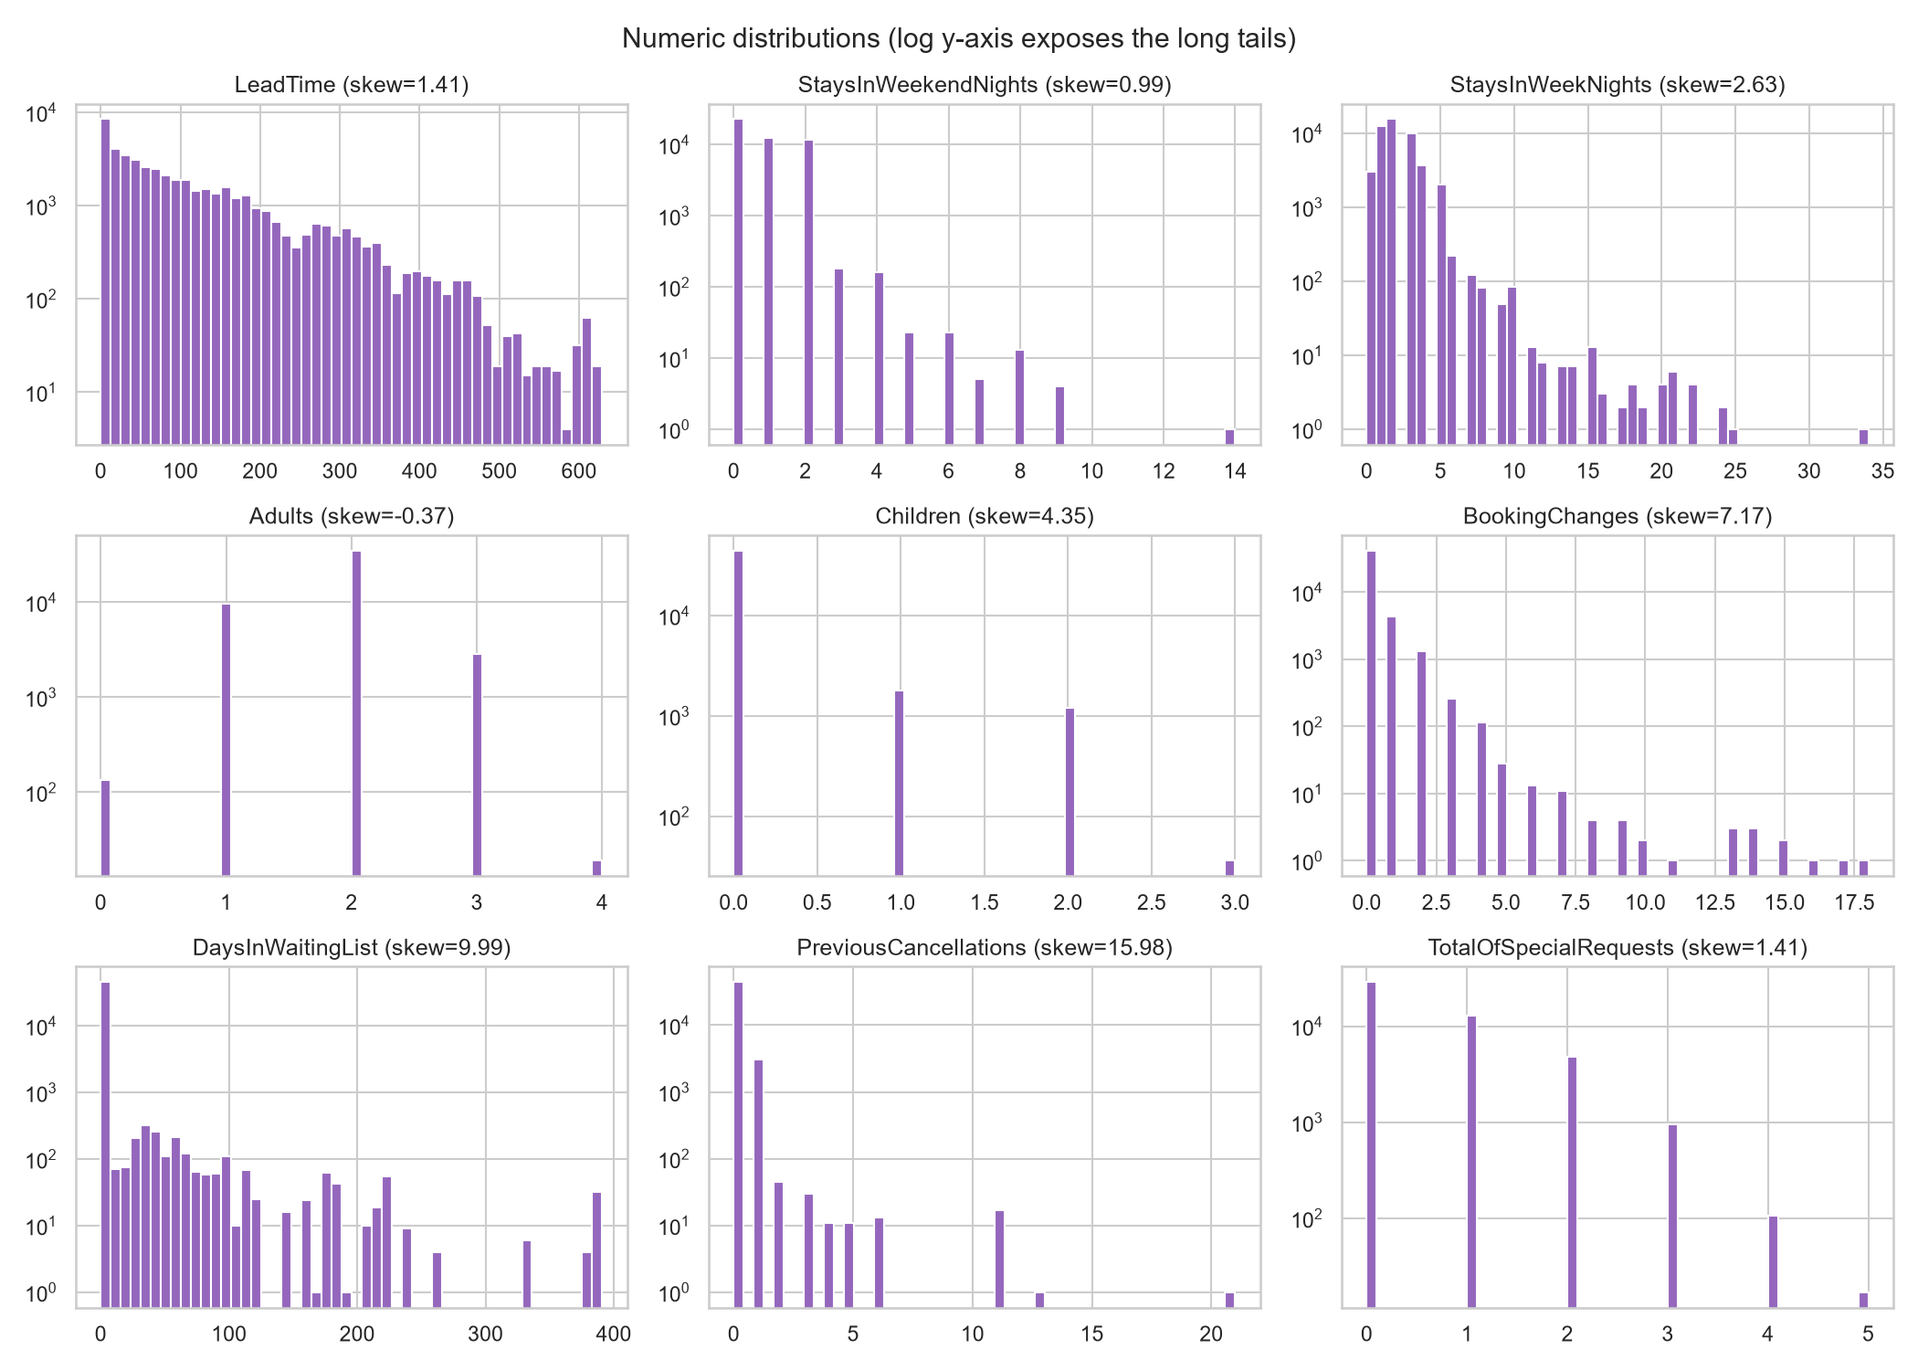
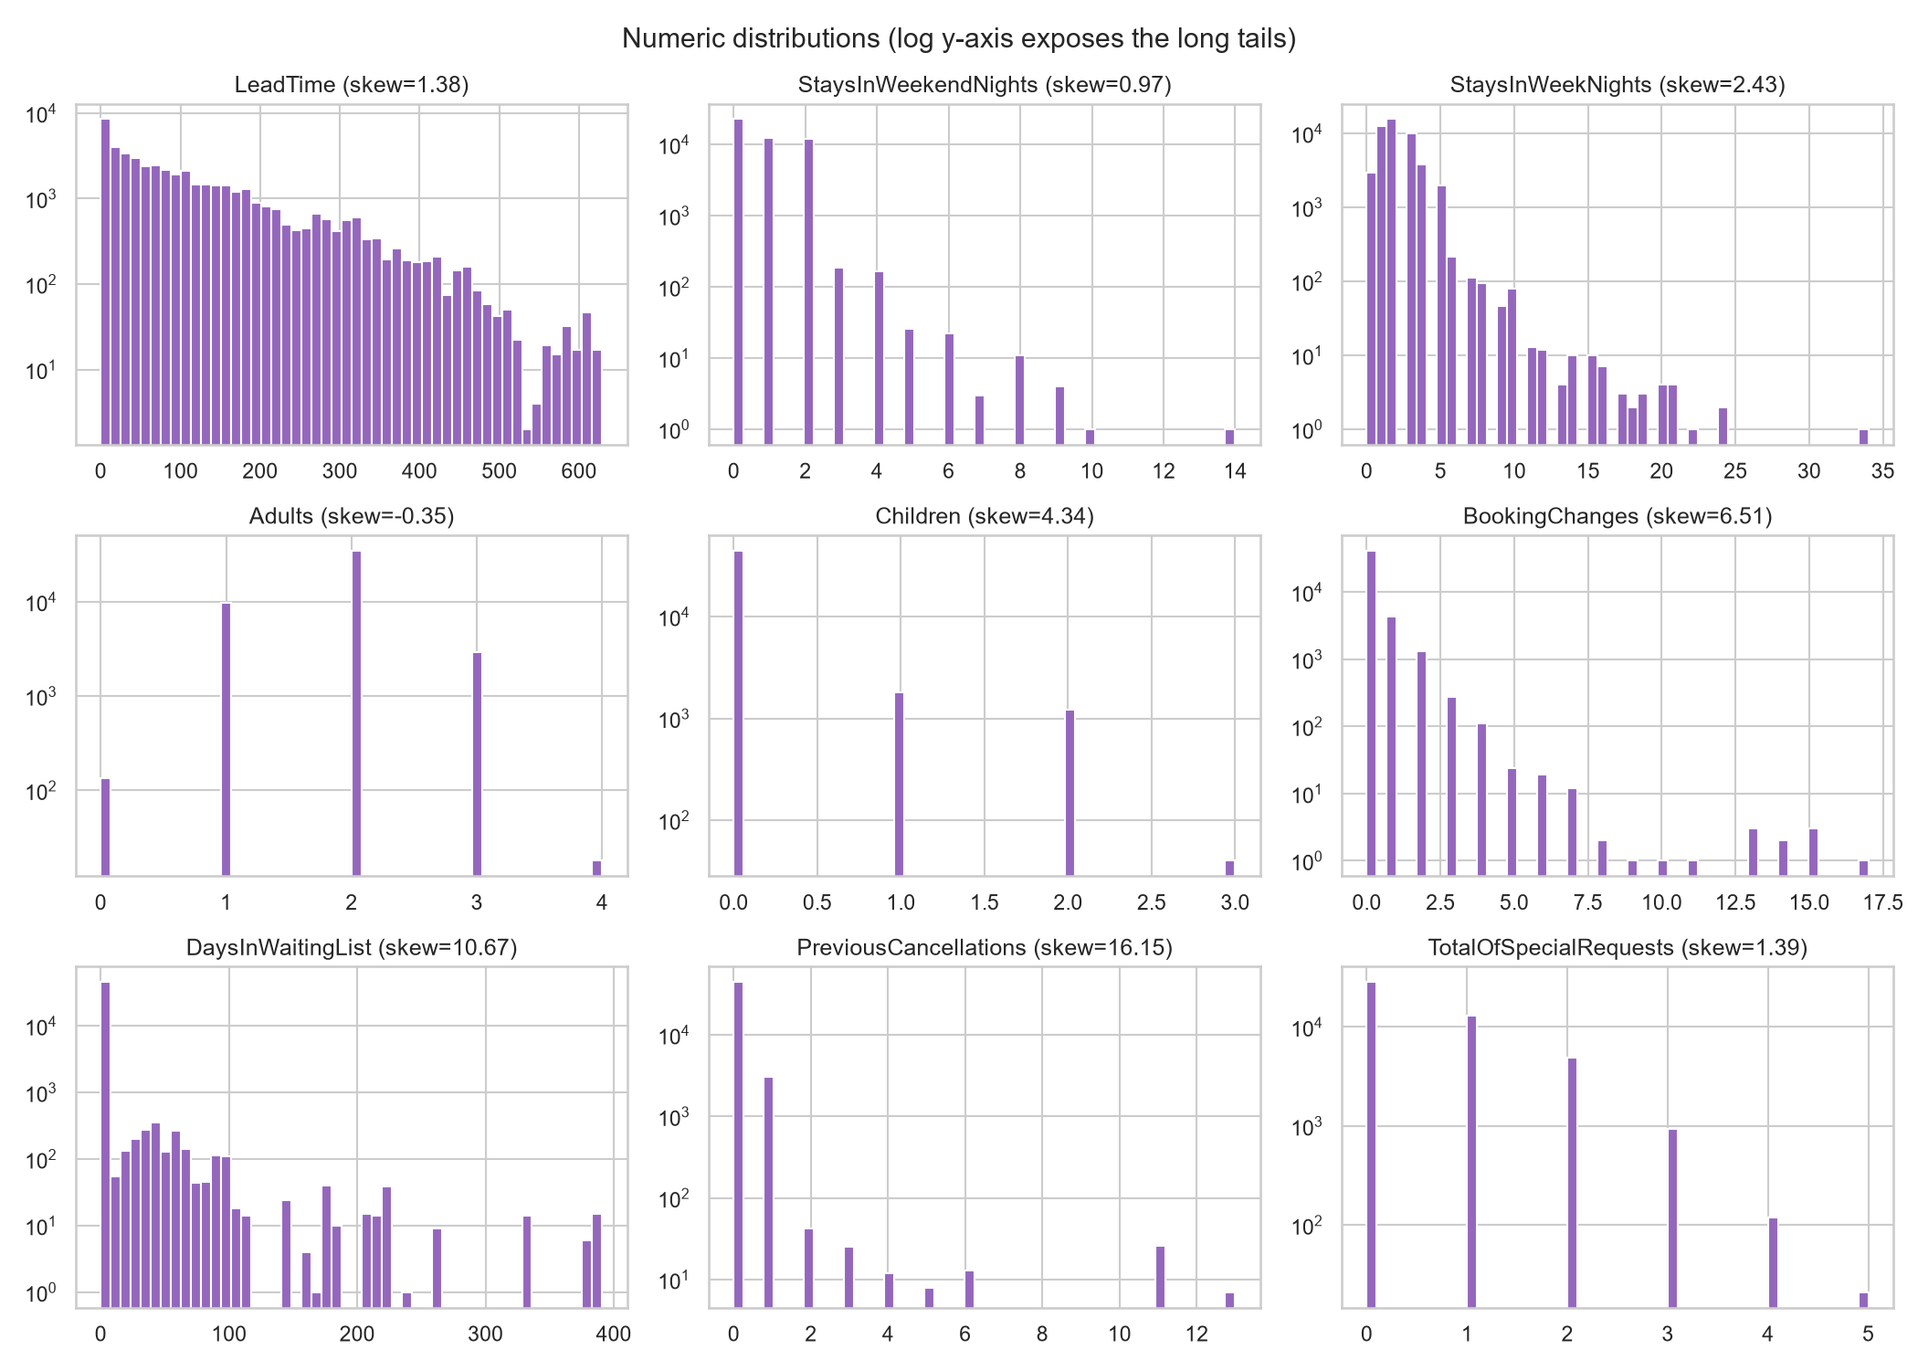
Twin Split Fix
In this fix we now compare groups rather than rows, compares occurs with only columns the model sees. Also new test modules added that applies on fake data so that the test can run fast on split.py. The fix main reason is to minimize data leakage where twins are reduced from around 1369 to 245.

diff --git a/src/features/feature_lists.py b/src/features/feature_lists.py
@@ -1,13 +1,5 @@
 """
 PREDICTION POINT
-  "Booking confirmation": the moment the hotel confirms a reservation to the
-  customer. One prediction per booking. A column is a valid feature only if its
-  value is final at that moment. Anything written later (at check-in, at
-  cancellation, or during the stay) is excluded for ALL tasks.
-
-  Analogy: a weather forecast must be made with what you know this morning.
-  Reading tomorrow's newspaper first gives a perfect but useless forecast.
-
 
 
 Tiers:
@@ -42,7 +34,7 @@ COLUMN_DECISIONS: dict[str, tuple[str, str]] = {
     "ADR": ("target", "Regression target. The agreed nightly price is known at confirmation, "
                       "so it is a valid feature for classification and clustering."),
     "LeadTime": ("safe", "Days between booking entry and arrival, fixed at booking."),
-    "ArrivalDateYear": ("safe", "Known. Used for ADR only (price trend 85.7->103.2->117.9 by year); "
+    "ArrivalDateYear": ("safe", "Known. Used for ADR only (price trend 86.1->103.8->116.9 by year); "
                                 "no cancel signal and only partial years, so not used elsewhere."),
     "ArrivalDateMonth": ("safe", "Planned arrival month, known."),
     "ArrivalDateDayOfMonth": ("safe", "Planned arrival day, known."),
@@ -65,19 +57,19 @@ COLUMN_DECISIONS: dict[str, tuple[str, str]] = {
                                   "the prediction point."),
     "CustomerType": ("safe", "Contract / Transient / Group, known."),
     "TotalOfSpecialRequests": ("uncertain", "Requests can be added after booking (cancel rate "
-                                            "21.6% when >0 vs 54.9% when 0). Kept; ablate."),
-    "Country": ("uncertain", "Often only confirmed at check-in (PRT cancels 64.7% vs 26.9% for "
+                                            "21.4% when >0 vs 55.1% when 0). Kept; ablate."),
+    "Country": ("uncertain", "Often only confirmed at check-in (PRT cancels 65.4% vs 26.8% for "
                              "others). Kept by default; dropped in the strict ablation."),
     "ReservationStatus": ("leak", "Final outcome (Canceled / Check-Out / No-Show): a 1:1 copy "
                                   "of IsCanceled."),
     "ReservationStatusDate": ("leak", "Date the final status was set: after the outcome."),
-    "AssignedRoomType": ("leak", "Assigned at check-in. Cancel rate 5.8% when it differs from "
+    "AssignedRoomType": ("leak", "Assigned at check-in. Cancel rate 6.4% when it differs from "
                                  "the reserved room vs 45.3% when equal."),
     "BookingChanges": ("leak", "Counts changes up to check-in or cancellation (future)."),
-    "RequiredCarParkingSpaces": ("leak", "Recorded at arrival: 0.0% of the 1,162 train bookings "
+    "RequiredCarParkingSpaces": ("leak", "Recorded at arrival: 0.0% of the 1,141 train bookings "
                                          "with parking > 0 were canceled (a perfect leak)."),
     "ArrivalDateWeekNumber": ("dropped", "Redundant with month + day of month."),
-    "Company": ("dropped", "95.4% missing. Replaced by the engineered flag HasCompany."),
+    "Company": ("dropped", "95.2% missing. Replaced by the engineered flag HasCompany."),
 }
 
 ENGINEERED = {
@@ -228,16 +220,20 @@ def main(out_dir: Path = Path("outputs/features")) -> None:
                              "profile_only": PROFILE_ONLY.get(t, [])} for t in TASKS}}
     (out_dir / "feature_lists.json").write_text(json.dumps(payload, indent=2))
 
-    # Evidence needs the raw data; skip gracefully if it is not downloaded.
-    from src.data.eda import CONFIG_PATH, load_config, load_h2, make_splits
+    # Evidence is measured on the SAME cleaned train rows the models use (saved split).
+    # Imported here, not at the top: split.py -> eda.py would otherwise load at import time.
+    from src.data.eda import CONFIG_PATH, load_config, load_h2
+    from src.data.split import SPLIT_FILE, clean_rows, load_split
     cfg = load_config(CONFIG_PATH)
     raw = Path(cfg["paths"]["raw_data"])
-    if raw.exists():
-        train, _, _ = make_splits(load_h2(raw), cfg)
+    if raw.exists() and SPLIT_FILE.exists():
+        df = clean_rows(load_h2(raw), cfg["data"]["max_valid_adr"])
+        train, _, _ = load_split(df)
         leakage_evidence(train).to_csv(out_dir / "leakage_evidence.csv", index=False)
         add_engineered_features(train)  # smoke test on real data
     else:
-        print(f"[skip] {raw} not found: leakage_evidence.csv not written")
+        print(f"[skip] needs {raw} and {SPLIT_FILE} (run: python -m src.data.split): "
+              "leakage_evidence.csv not written")
     for t in TASKS:
         fl = get_feature_lists(t)
         print(f"{t:15s} target={fl['target']!s:10s} "

diff --git a/tests/test_split.py b/tests/test_split.py
@@ -10,27 +10,19 @@ import numpy as np
 import pandas as pd
 import pytest
 
-from src.data.split import check_no_overlap, clean_rows, make_groups, make_split
+from src.data.split import (check_no_overlap, clean_rows, cv_folds, make_groups,
+                            make_split, model_key_columns, twin_groups)
+from tests.fakes import fake_raw_bookings
 
 CFG = {"project": {"random_seed": 42},
-       "validation": {"test_size": 0.20, "validation_size": 0.20}}
+       "validation": {"test_size": 0.20, "validation_size": 0.20,
+                      "cross_validation_folds": 5}}
 RAW = Path("data/raw/H2.csv")
 
 
 def fake_bookings(n_unique: int = 400, seed: int = 0) -> pd.DataFrame:
-    """n_unique distinct bookings, some copied 2-5 times (like group bookings).
-    ~40% canceled, mirroring the real data."""
-    rng = np.random.default_rng(seed)
-    base = pd.DataFrame({
-        "LeadTime": np.arange(n_unique),                    # makes every base row unique
-        "Adults": rng.integers(1, 4, n_unique),
-        "Children": rng.integers(0, 2, n_unique).astype(float),
-        "Babies": 0,
-        "ADR": rng.uniform(50, 200, n_unique).round(2),
-        "IsCanceled": (rng.random(n_unique) < 0.4).astype(int),
-    })
-    copies = rng.choice([1, 1, 1, 2, 5], size=n_unique)     # some rows get duplicates
-    return base.loc[base.index.repeat(copies)].reset_index(drop=True)
+    """Shared fake H2 data; copies of a booking are model-twins (see tests/fakes.py)."""
+    return fake_raw_bookings(n_unique, seed)
 
 
 # ----------------------------------------------------------- Part A: fake data
@@ -71,8 +63,13 @@ def test_no_duplicate_group_crosses_splits():
 
 
 def test_overlap_check_catches_a_leak():
-    df = pd.DataFrame({"a": [1, 1, 2, 3]})
-    leaky = pd.Series(["train", "test", "val", "train"])   # rows 0 and 1 are identical
+    df = fake_bookings()
+    twins = twin_groups(df)
+    first_pair = twins[twins.duplicated(keep=False)].index[:2]   # two twin rows
+    leaky = pd.Series("train", index=df.index)
+    leaky.iloc[1::5] = "val"
+    leaky.iloc[2::5] = "test"
+    leaky[first_pair[0]], leaky[first_pair[1]] = "train", "test"  # put them apart
     with pytest.raises(RuntimeError):
         check_no_overlap(df, leaky)
 
@@ -86,6 +83,39 @@ def test_different_seed_gives_different_split():
     df = fake_bookings()
     other = {**CFG, "project": {"random_seed": 7}}
     assert not make_split(df, CFG).equals(make_split(df, other))
+
+
+def test_key_has_model_columns_but_no_leaks_or_label():
+    key = set(model_key_columns())
+    assert "ADR" in key and "LeadTime" in key and "HasCompany" in key
+    for col in ("IsCanceled", "ReservationStatus", "ReservationStatusDate",
+                "AssignedRoomType", "BookingChanges", "RequiredCarParkingSpaces"):
+        assert col not in key
+
+
+def test_twins_differ_raw_but_share_a_group():
+    """Rows that differ only in a column no model sees are ONE group."""
+    df = fake_bookings()
+    assert not df.duplicated().any()                 # raw file: no exact duplicates
+    assert twin_groups(df).duplicated().any()        # model view: twins exist
+
+
+def test_twins_never_straddle_the_split():
+    df = fake_bookings()
+    labels = make_split(df, CFG)
+    per_group = labels.groupby(twin_groups(df)).nunique()
+    assert (per_group == 1).all()
+
+
+def test_cv_folds_are_grouped_and_cover_train():
+    df = fake_bookings()
+    folds = cv_folds(df, CFG)
+    assert len(folds) == 5
+    groups = twin_groups(df).to_numpy()
+    scored = np.concatenate([score for _, score in folds])
+    assert sorted(scored) == list(range(len(df)))    # every row scored exactly once
+    for fit, score in folds:
+        assert not set(groups[fit]) & set(groups[score])   # no twin on both sides
 
 
 # ----------------------------------------------------------- Part B: real data
@@ -121,3 +151,17 @@ def test_real_split_is_stratified(real_split):
 def test_real_no_leak(real_split):
     df, labels = real_split
     check_no_overlap(df, labels)
+
+
+def test_real_no_model_level_twins_across_splits(real_split):
+    """For each supervised task: no val/test row has an exact input+answer twin in train."""
+    from src.features.feature_lists import add_engineered_features, get_feature_lists
+    df, labels = real_split
+    eng = add_engineered_features(df)
+    for task in ("regression", "classification"):
+        fl = get_feature_lists(task)
+        cols = fl["numeric"] + fl["categorical"] + [fl["target"]]
+        h = pd.util.hash_pandas_object(eng[cols], index=False)
+        seen = set(h[labels == "train"])
+        for part in ("val", "test"):
+            assert not h[labels == part].isin(seen).any(), (task, part)

diff --git a/src/data/split.py b/src/data/split.py
@@ -4,6 +4,7 @@ import pandas as pd
 from sklearn.model_selection import StratifiedGroupKFold
 
 from src.data.eda import CONFIG_PATH, load_config, load_h2
+from src.features.feature_lists import add_engineered_features, get_feature_lists
 
 SPLIT_FILE = Path("artifacts/split_indices.csv")
 SUMMARY_FILE = Path("outputs/split/split_summary.csv")
@@ -17,10 +18,26 @@ def clean_rows(df: pd.DataFrame, max_adr: float) -> pd.DataFrame:
     return df[~bad]
 
 
+def model_key_columns() -> list[str]:
+    """Every column a supervised model can see, plus ADR (the regression answer).
+    IsCanceled is deliberately NOT included: rows with the same inputs but a
+    different cancel outcome must still be twins, or they could straddle the split."""
+    cols = set()
+    for task in ("regression", "classification"):
+        fl = get_feature_lists(task)
+        cols |= set(fl["numeric"] + fl["categorical"])
+    return sorted(cols | {"ADR"})
+
+
 def make_groups(df: pd.DataFrame) -> pd.Series:
-    """Same group ID for identical rows (hash of all 31 columns)."""
+    """Same group ID for rows that are identical in ALL columns of `df`."""
     row_hash = pd.util.hash_pandas_object(df, index=False)
     return pd.Series(pd.factorize(row_hash)[0], index=df.index)
+
+
+def twin_groups(df: pd.DataFrame) -> pd.Series:
+    """Group ID per row using only model-visible columns (raw H2 schema in)."""
+    return make_groups(add_engineered_features(df)[model_key_columns()])
 
 
 def make_split(df: pd.DataFrame, cfg: dict) -> pd.Series:
@@ -28,7 +45,7 @@ def make_split(df: pd.DataFrame, cfg: dict) -> pd.Series:
     Step 1: 5 folds -> fold 0 = test (20%).
     Step 2: remaining 80% into 4 folds -> fold 0 = val (20% of total)."""
     seed = cfg["project"]["random_seed"]
-    y, groups = df["IsCanceled"], make_groups(df)
+    y, groups = df["IsCanceled"], twin_groups(df)
 
     n_test = round(1 / cfg["validation"]["test_size"])                     # 5
     rest_share = 1 - cfg["validation"]["test_size"]                        # 0.8
@@ -48,13 +65,23 @@ def make_split(df: pd.DataFrame, cfg: dict) -> pd.Series:
 
 
 def check_no_overlap(df: pd.DataFrame, labels: pd.Series) -> None:
-    """Fail hard if any identical row appears in two splits."""
-    groups = make_groups(df)
+    """Fail hard if any twin group appears in two splits."""
+    groups = twin_groups(df)
     sets = {s: set(groups[labels == s]) for s in ("train", "val", "test")}
     for a, b in [("train", "val"), ("train", "test"), ("val", "test")]:
         shared = sets[a] & sets[b]
         if shared:
-            raise RuntimeError(f"{len(shared)} duplicate groups shared by {a} and {b}")
+            raise RuntimeError(f"{len(shared)} twin groups shared by {a} and {b}")
+
+
+def cv_folds(train: pd.DataFrame, cfg: dict) -> list:
+    """Grouped, stratified CV folds INSIDE train: a list of (fit_positions,
+    score_positions). Pass it as `cv=` to cross_validate / GridSearchCV /
+    RandomizedSearchCV / Optuna loops. Same folds for every task and model,
+    so comparisons are fair (PDF section 12)."""
+    sgkf = StratifiedGroupKFold(n_splits=cfg["validation"]["cross_validation_folds"],
+                                shuffle=True, random_state=cfg["project"]["random_seed"])
+    return list(sgkf.split(train, train["IsCanceled"], twin_groups(train)))
 
 
 def load_split(df: pd.DataFrame):

diff --git a/tests/fakes.py b/tests/fakes.py
@@ -1,0 +1,54 @@
+"""Fake H2-shaped data for fast tests (all 31 source columns, no real data needed)."""
+import numpy as np
+import pandas as pd
+
+MONTHS = ["January", "February", "March", "April", "May", "June", "July",
+          "August", "September", "October", "November", "December"]
+
+
+def fake_raw_bookings(n_unique: int = 400, seed: int = 0) -> pd.DataFrame:
+    """n_unique distinct bookings in the raw 31-column schema. Some are copied
+    2-5 times (like group bookings), and each copy gets a DIFFERENT
+    ReservationStatusDate, so copies are 'twins': identical to a model,
+    different in the raw file. ~40% canceled, like the real data."""
+    rng = np.random.default_rng(seed)
+    pick = lambda opts: rng.choice(opts, n_unique)
+    base = pd.DataFrame({
+        "IsCanceled": (rng.random(n_unique) < 0.4).astype(int),
+        "LeadTime": np.arange(n_unique),                      # makes base rows unique
+        "ArrivalDateYear": pick([2015, 2016, 2017]),
+        "ArrivalDateMonth": pick(MONTHS),
+        "ArrivalDateWeekNumber": rng.integers(1, 53, n_unique),
+        "ArrivalDateDayOfMonth": rng.integers(1, 29, n_unique),
+        "StaysInWeekendNights": rng.integers(0, 3, n_unique),
+        "StaysInWeekNights": rng.integers(0, 6, n_unique),
+        "Adults": rng.integers(1, 4, n_unique),
+        "Children": rng.integers(0, 2, n_unique).astype(float),
+        "Babies": 0,
+        "Meal": pick(["BB", "HB", "SC"]),
+        "Country": pick(["PRT", "GBR", "FRA"]),
+        "MarketSegment": pick(["Online TA", "Groups", "Direct"]),
+        "DistributionChannel": pick(["TA/TO", "Direct"]),
+        "IsRepeatedGuest": rng.integers(0, 2, n_unique),
+        "PreviousCancellations": 0,
+        "PreviousBookingsNotCanceled": 0,
+        "ReservedRoomType": pick(["A", "D"]),
+        "AssignedRoomType": pick(["A", "D"]),
+        "BookingChanges": 0,
+        "DepositType": pick(["No Deposit", "Non Refund"]),
+        "Agent": pick(["9", "1"]).astype(object),
+        "Company": pd.Series([None] * n_unique, dtype=object),
+        "DaysInWaitingList": 0,
+        "CustomerType": pick(["Transient", "Group"]),
+        "ADR": rng.uniform(50, 200, n_unique).round(2),
+        "RequiredCarParkingSpaces": 0,
+        "TotalOfSpecialRequests": rng.integers(0, 3, n_unique),
+        "ReservationStatus": "Check-Out",
+        "ReservationStatusDate": "2016-01-01",
+    })
+    base["ReservationStatus"] = np.where(base["IsCanceled"] == 1, "Canceled", "Check-Out")
+    copies = rng.choice([1, 1, 1, 2, 5], size=n_unique)
+    df = base.loc[base.index.repeat(copies)].reset_index(drop=True)
+    # copies differ ONLY in a column no model sees -> raw-different, model-identical
+    df["ReservationStatusDate"] = pd.date_range("2016-01-01", periods=len(df)).strftime("%Y-%m-%d")
+    return df

diff --git a/tests/test_preprocess.py b/tests/test_preprocess.py
@@ -142,11 +142,17 @@ def real_train_val():
     return train, val
 
 
-@pytest.mark.parametrize("task,expected_cols",
-                         [("regression", 108), ("classification", 108), ("clustering", 21)])
-def test_real_data_shapes(task, expected_cols, real_train_val):
+@pytest.mark.parametrize("task,low,high",
+                         [("regression", 95, 120), ("classification", 95, 120),
+                          ("clustering", 18, 25)])
+def test_real_data_shapes(task, low, high, real_train_val):
+    """The exact column count depends on which categories pass the 0.5% rare
+    threshold in train (e.g. one agent can drop to 'infrequent' when the split
+    changes), so check a sensible band and internal consistency, not one number."""
     train, val = real_train_val
     prep = build_preprocessor(task).fit(select_features(train, task)[0])
     Z = prep.transform(select_features(val, task)[0])
-    assert Z.shape == (len(val), expected_cols)
+    assert Z.shape[0] == len(val)
+    assert Z.shape[1] == len(prep.get_feature_names_out())
+    assert low <= Z.shape[1] <= high
     assert not np.isnan(Z).any()

diff --git a/tests/test_feature_lists.py b/tests/test_feature_lists.py
@@ -1,3 +1,5 @@
+from pathlib import Path
+
 import pandas as pd
 import pytest
 
@@ -47,5 +49,17 @@ def test_engineered_features():
     out = add_engineered_features(df)
     assert out.loc[0, "TotalNights"] == 3
     assert out.loc[0, "TotalGuests"] == 3
-    assert out.loc[0, "ArrivalDayOfWeek"] == "Friday"   # 1 July 2016
+    assert out.loc[0, "ArrivalDayOfWeek"] == "Friday"   
     assert out.loc[0, "HasAgent"] == 0 and out.loc[0, "HasCompany"] == 1
+
+
+def test_main_runs_end_to_end(tmp_path):
+    """Catches broken imports inside main() (e.g. a renamed split function).
+    Without data/split it still runs and must skip the evidence file cleanly."""
+    from src.features.feature_lists import main
+    main(out_dir=tmp_path)
+    assert (tmp_path / "column_audit.csv").exists()
+    assert (tmp_path / "feature_lists.json").exists()
+    from src.data.split import SPLIT_FILE
+    if SPLIT_FILE.exists() and Path("data/raw/H2.csv").exists():
+        assert (tmp_path / "leakage_evidence.csv").exists()
